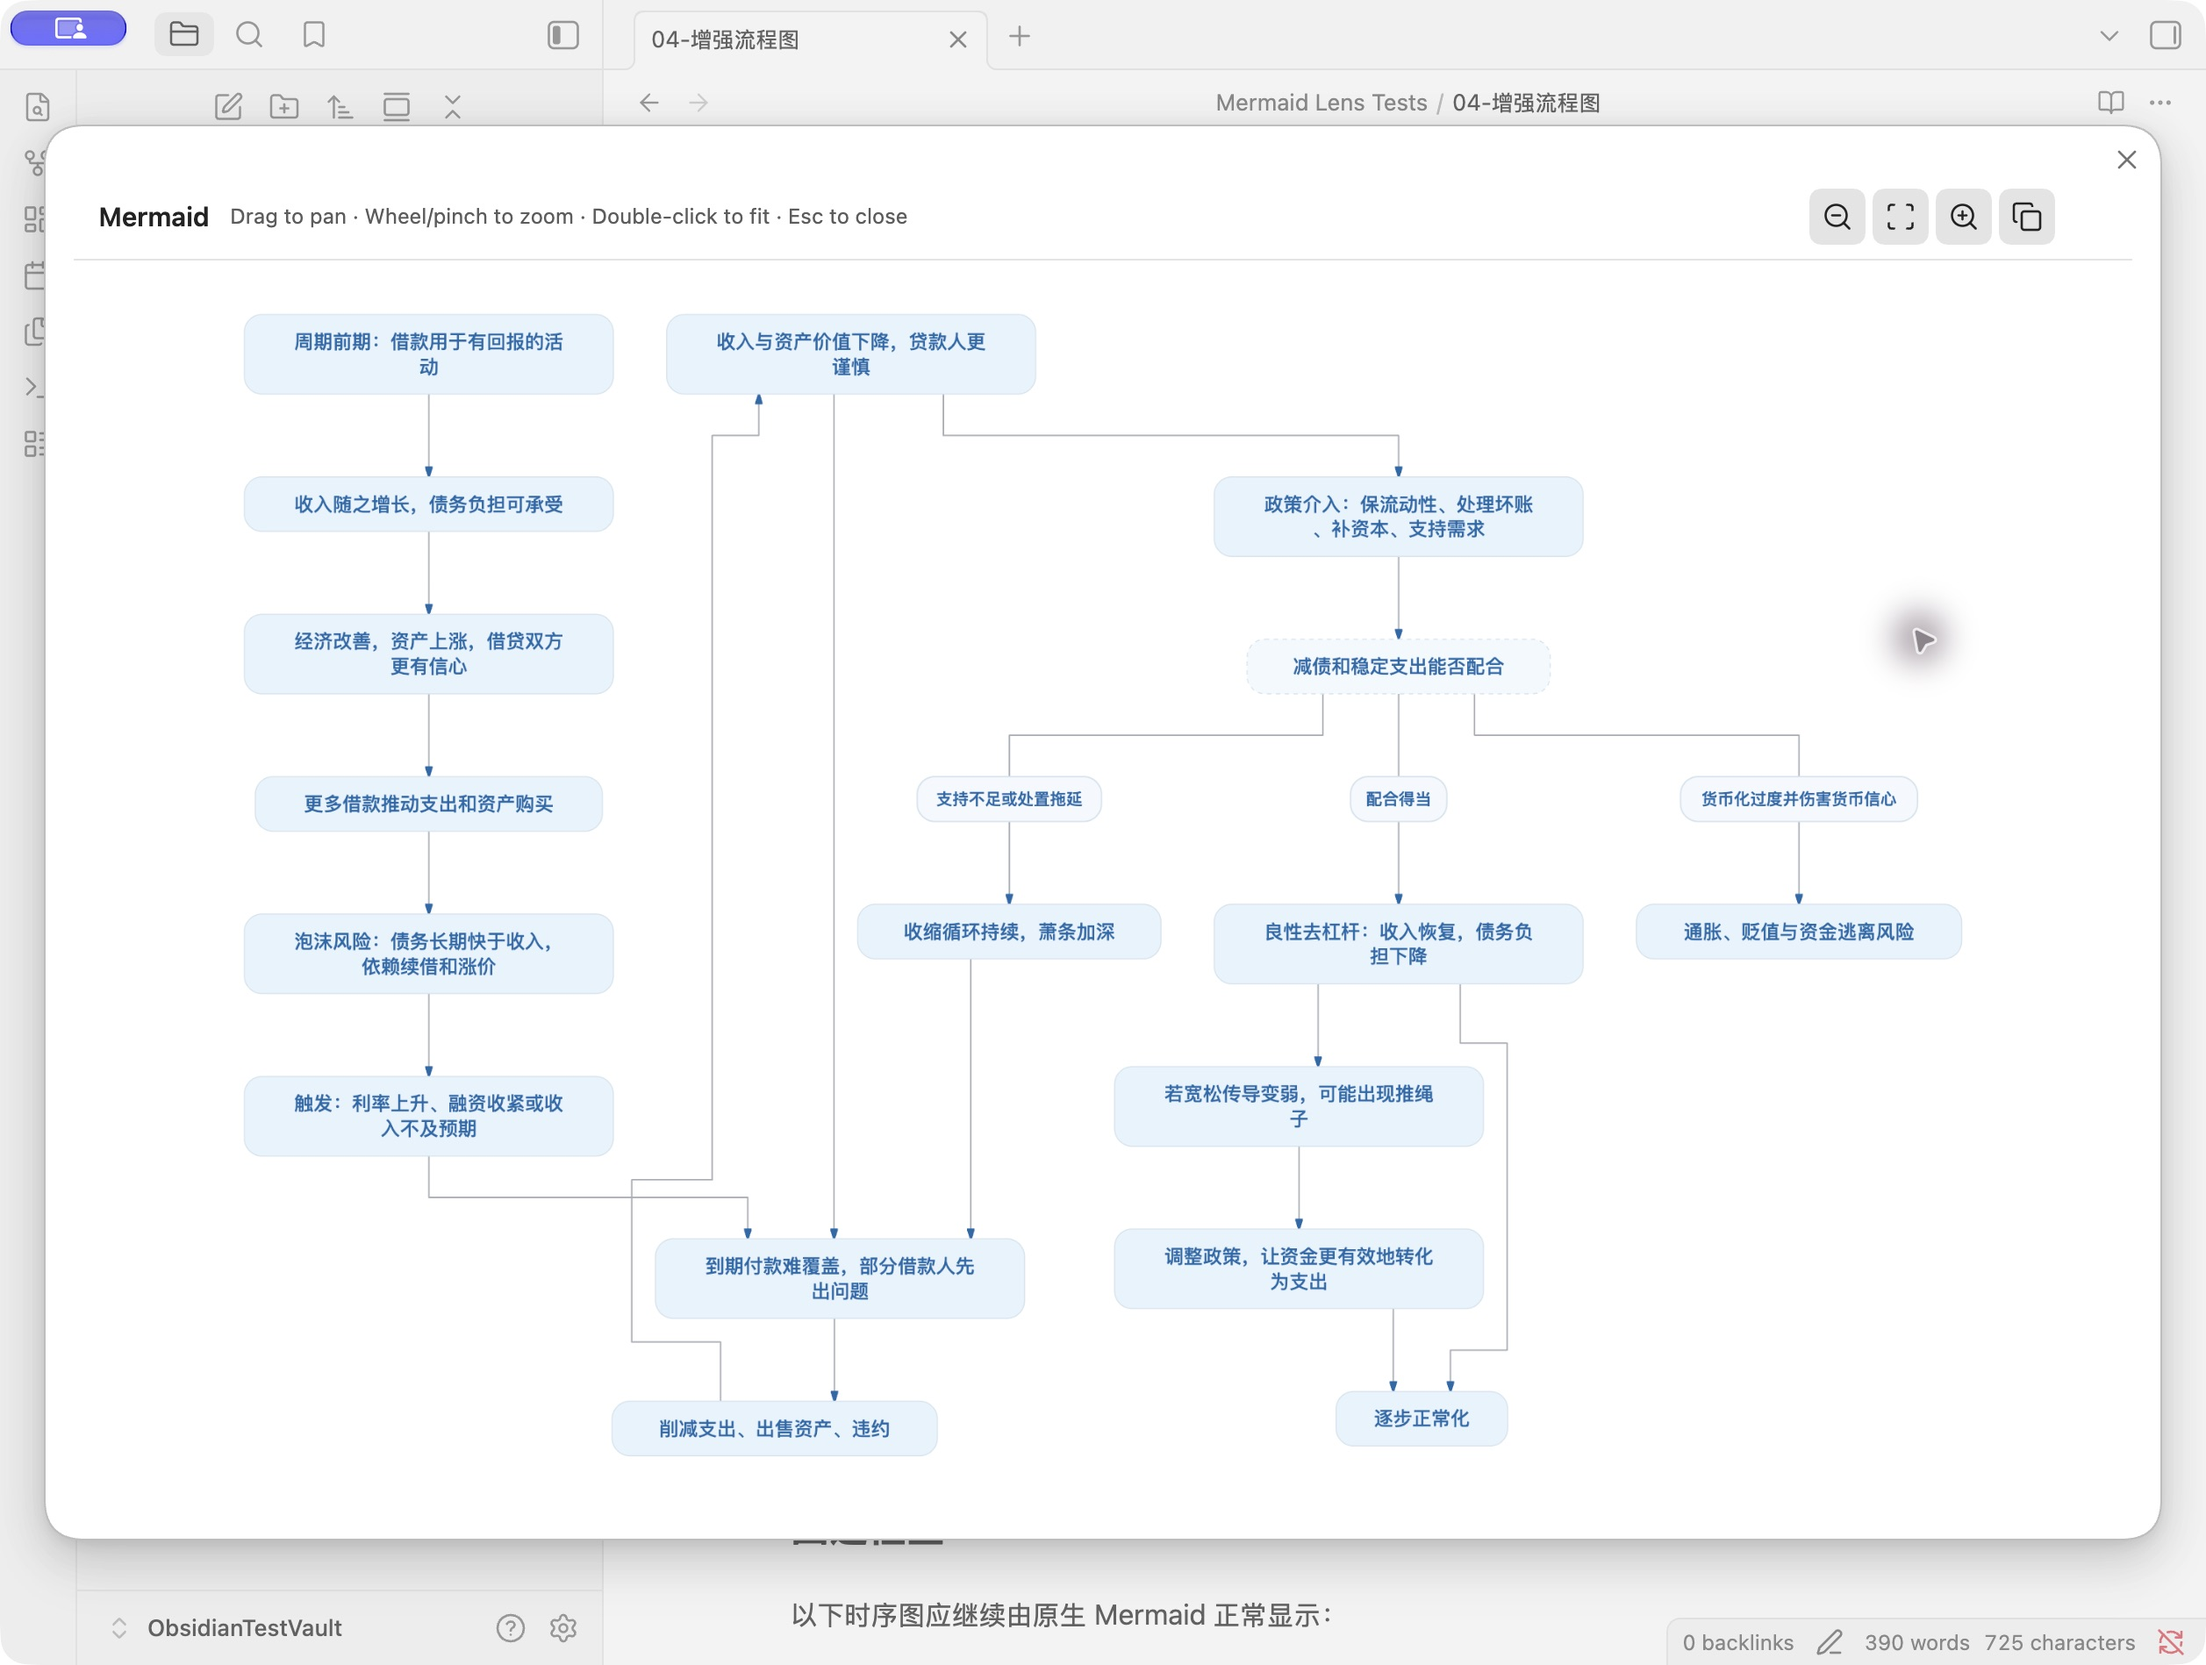
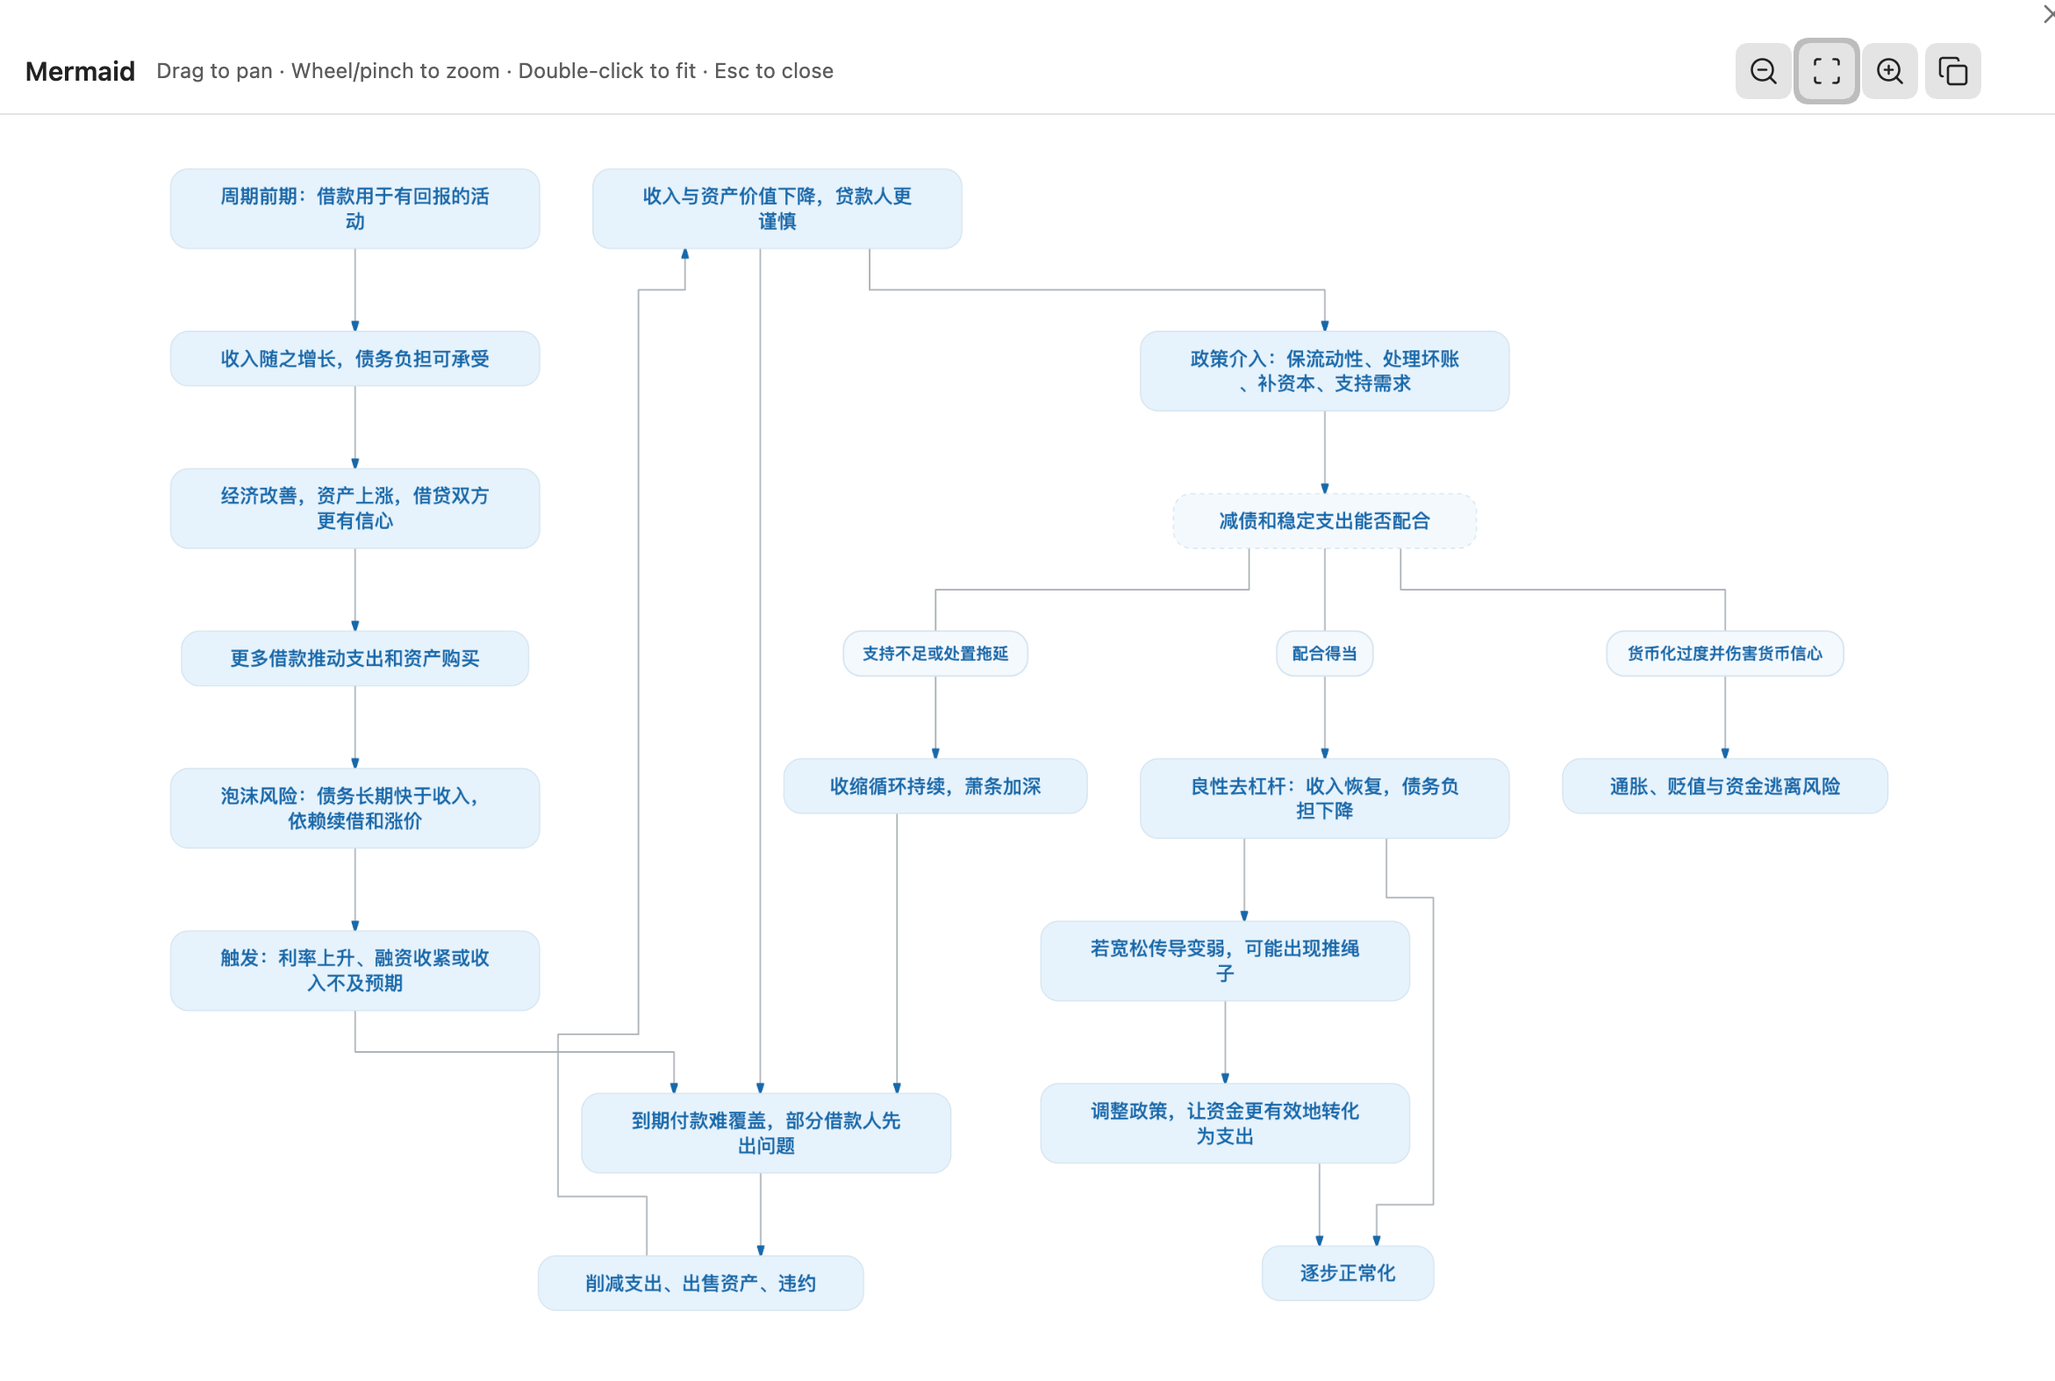
docs: refresh README viewer screenshot

diff --git a/src/locales/en.ts b/src/locales/en.ts
@@ -1,12 +1,12 @@
 export const en = {
   "settings.config.name": "Global Mermaid configuration",
-  "settings.config.desc": "Enter JSON for Mermaid initialize(). Changes are saved only after selecting Apply and redraw.",
+  "settings.config.desc": "Edit Mermaid initialize() JSON. Enhanced flowcharts use the plugin's own edge routing; some Mermaid layout options apply only to native fallback diagrams.",
   "settings.config.aliasJson": "Mermaid JSON",
   "settings.config.aliasInitialize": "initialize",
   "settings.actions.name": "Apply configuration",
-  "settings.actions.desc": "Validate the configuration, then save and redraw only if Mermaid accepts it.",
+  "settings.actions.desc": "Apply validates with Mermaid before saving and redrawing. Restore defaults applies Mermaid Lens's current light-blue configuration.",
   "settings.actions.apply": "Apply and redraw",
-  "settings.actions.reset": "Restore defaults",
+  "settings.actions.reset": "Restore Mermaid Lens defaults",
   "settings.trigger.name": "Open viewer action",
   "settings.trigger.desc": "Single-click by default. Links and buttons inside diagrams do not open the viewer.",
   "settings.trigger.aliasSingle": "Single-click diagram",
@@ -21,8 +21,8 @@ export const en = {
   "settings.expandButton.aliasLarge": "Large diagram",
   "notice.configApplied": "Mermaid configuration applied",
   "notice.invalidConfig": "Invalid Mermaid configuration: {{message}}",
-  "notice.defaultsRestored": "Default Mermaid configuration restored",
-  "notice.restoreDefaultsFailed": "Failed to restore the default configuration. Check the developer console.",
+  "notice.defaultsRestored": "Mermaid Lens defaults restored",
+  "notice.restoreDefaultsFailed": "Failed to restore Mermaid Lens defaults. Check the developer console.",
   "notice.savedConfigInvalid": "The saved Mermaid configuration is invalid. Using defaults for this session.",
   "notice.applySavedConfigFailed": "Could not apply the Mermaid configuration. Attempted to restore defaults.",
   "viewer.help": "Drag to pan · Wheel/pinch to zoom · Double-click to fit · Esc to close",

diff --git a/src/locales/zh-cn.ts b/src/locales/zh-cn.ts
@@ -2,13 +2,13 @@ import type { TranslationKey } from "./en";
 
 export const zhCN: Record<TranslationKey, string> = {
   "settings.config.name": "全局 Mermaid 配置",
-  "settings.config.desc": "填写 Mermaid initialize() 使用的 JSON。只有点击“应用并重绘”后才会保存。",
+  "settings.config.desc": "编辑 Mermaid initialize() 的 JSON。增强流程图使用插件自己的连线路由；部分 Mermaid 布局参数只对原生回退图表生效。",
   "settings.config.aliasJson": "Mermaid JSON",
   "settings.config.aliasInitialize": "initialize",
   "settings.actions.name": "应用配置",
-  "settings.actions.desc": "验证配置；Mermaid 接受后才保存并重绘。",
+  "settings.actions.desc": "点击“应用并重绘”后，会先由 Mermaid 验证，再保存并重绘。“恢复默认”会应用 Mermaid Lens 当前的浅蓝色配置。",
   "settings.actions.apply": "应用并重绘",
-  "settings.actions.reset": "恢复默认配置",
+  "settings.actions.reset": "恢复 Mermaid Lens 默认配置",
   "settings.trigger.name": "打开大图的操作",
   "settings.trigger.desc": "默认单击打开；图中的链接和按钮不会触发大图。",
   "settings.trigger.aliasSingle": "单击图表",
@@ -23,8 +23,8 @@ export const zhCN: Record<TranslationKey, string> = {
   "settings.expandButton.aliasLarge": "大图",
   "notice.configApplied": "Mermaid 配置已应用",
   "notice.invalidConfig": "Mermaid 配置无效：{{message}}",
-  "notice.defaultsRestored": "已恢复默认 Mermaid 配置",
-  "notice.restoreDefaultsFailed": "恢复默认配置失败，请查看开发者控制台",
+  "notice.defaultsRestored": "已恢复 Mermaid Lens 默认配置",
+  "notice.restoreDefaultsFailed": "恢复 Mermaid Lens 默认配置失败，请查看开发者控制台",
   "notice.savedConfigInvalid": "保存的 Mermaid 配置无效，本次使用默认配置",
   "notice.applySavedConfigFailed": "Mermaid 配置无法应用，已尝试恢复默认配置",
   "viewer.help": "拖拽移动 · 滚轮/双指缩放 · 双击适配 · Esc 关闭",
